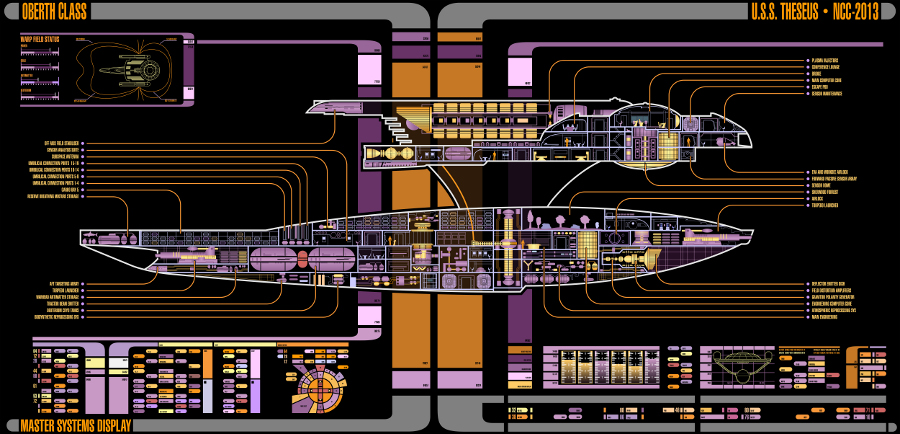
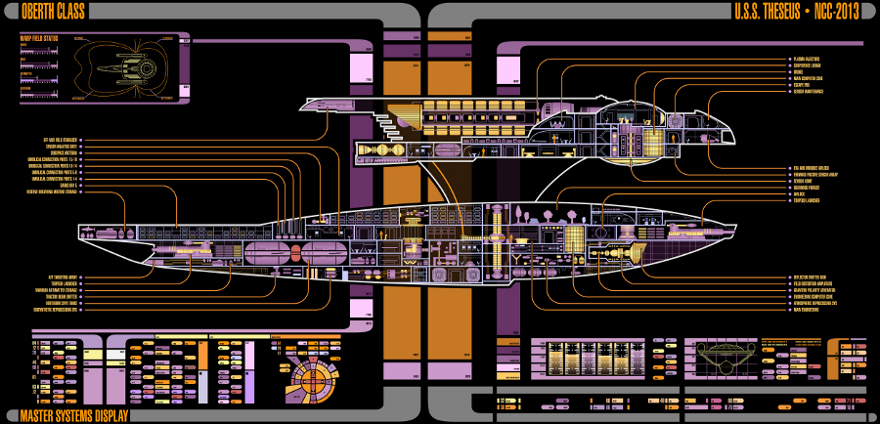
Added our engineer, added the MSD

diff --git a/css/styles.css b/css/styles.css
@@ -67,6 +67,16 @@ body {
 	text-shadow: 1px 1px #000;
 }
 
+/* MSD wrapper */
+.msd {
+	margin-bottom: 5px;
+	padding: 10px;
+	background: #000;
+	border-radius: 10px;
+	-moz-border-radius: 10px;
+	-webkit-border-radius: 10px;
+}
+
 /* Navigation Style */
 
 .navigation.maintext {
@@ -102,6 +112,17 @@ body {
 }
 
 #mainlinks ul a:hover {
+	color: #888;
+}
+
+/* links */
+
+a {
+	color: #FFF;
+	text-decoration: none;
+}
+
+a:hover {
 	color: #888;
 }
 

diff --git a/ship.php b/ship.php
@@ -1,7 +1,11 @@
 <?php include "includes/header.php"; ?>
 		<div class="maintext">
 			<h3>USS Theseus NCC-2013<br> <span class="subtext">Oberth class border cutter</span></h3>
-			<img id="msd" src="images/theseus_thumb.jpg" />
+			<div class="msd">
+				<img id="msd" src="images/theseus_thumb.jpg" />
+			</div>
+			<center><span class="subtext">Mouseover image to zoom - MSD created by <a href="http://lcarsgfx.wordpress.com/" target="_blank">http://lcarsgfx.wordpress.com/</a></span></center>
+			<br/><br/>
 			In service as early as the 2280s, the Oberth-class was designed and used almost exclusively for the study of astronomical phenomena, including data gathering missions on stars and planets, well into the 2360s.<br/>
 			<br/>
 			The Federation continued to construct Oberth-class starships as late as 2363, at such locations as the USSR's Baikonur Cosmodrome.<br/>

diff --git a/includes/header.php b/includes/header.php
@@ -12,11 +12,11 @@
 	<script type="text/javascript" src="js/ddpowerzoomer.js"></script>
 	<script type="text/javascript">
 		jQuery(document).ready(function($){ //fire on DOM ready
-			$('img.msd').addpowerzoom({
-				defaultpower: 2,
-				powerrange: [2,5],
-				largeimage: images/theseus.jpg,
-				magnifiersize: [100,100] 
+			$('#msd').addpowerzoom({
+				defaultpower: 3,
+				powerrange: [2,3],
+				largeimage: "images/theseus.jpg",
+				magnifiersize: [200,200]
 			})
 		})
 	</script>

diff --git a/crew.php b/crew.php
@@ -92,8 +92,8 @@
 				</tr>
 				<tr>
 					<td>Chief Engineering Officer</td>
-					<td> -- </td>
-					<td> -- </td>
+					<td>Warrant Officer 2nd Grade</td>
+					<td>Riallashandra Vryn</td>
 				</tr>
 				<tr>
 					<td>Engineering's Mate</td>
